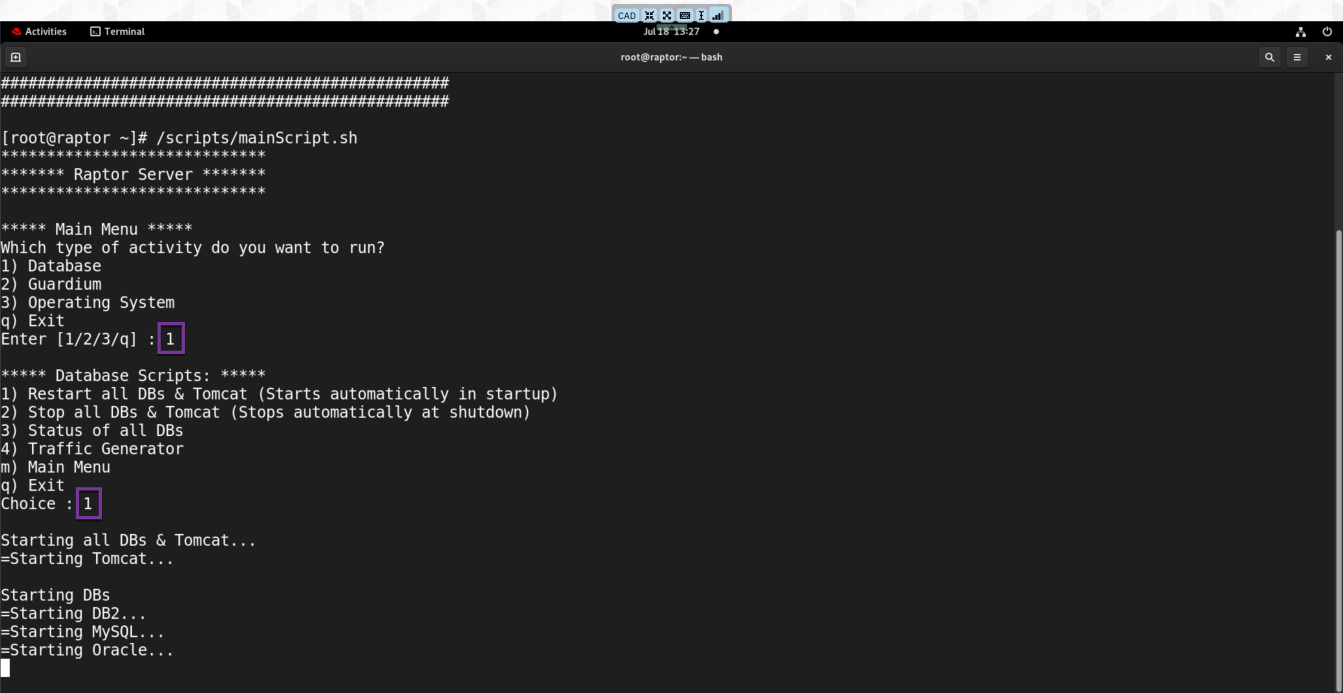
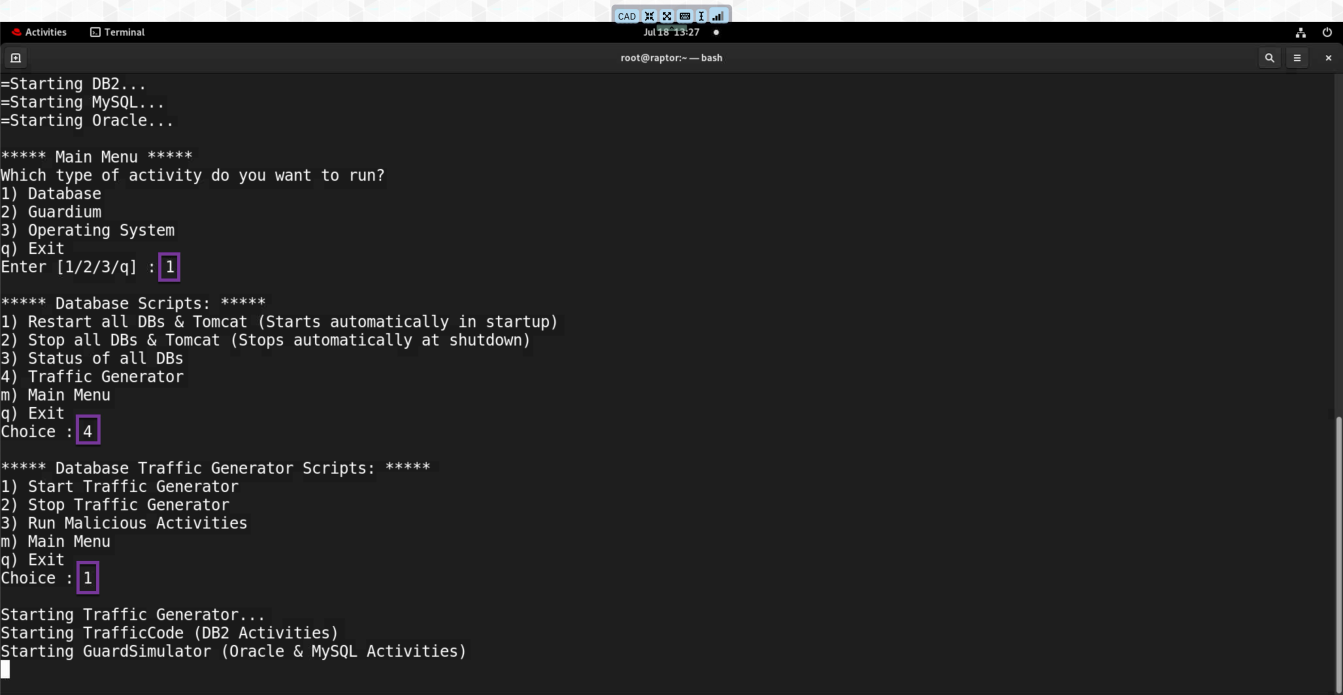
lab 101 pictures added

diff --git a/content/labs/Guardium/101.md b/content/labs/Guardium/101.md
@@ -21,7 +21,9 @@ This lab demonstrate the Active Threat Analytics dashboard that shows potential 
 > **Note:** Perform the steps in the preparation guide before starting the demo, preferably several hours or more, so that there is sufficient traffic generated.
 
 
-- On the Raptor server, open a Firefox browser. The browser opens with two tabs, one forthe collector (C200) and another for the Central Manager (MA170). Click the Central Manager (MA170) tab. Login with ``labadmin`` password `P@ssw0rd`.
+- On the Raptor server, open a Firefox browser. The browser opens with two tabs, one forthe collector (C200) and another for the Central Manager (MA170). Click the Central Manager (MA170) tab. Login with `labadmin` password `P@ssw0rd`.
+
+![](./images/101/image-001.png)
 
 IBM Security Guardium Data Protection solution has its own access management
 functions. Access management consists of four tasks: account administration,
@@ -36,6 +38,7 @@ This demonstration uses an administrative account to access all functions.
 
 - Review the notice dialog and then close it by clicking any area on the main page.
 
+![](./images/101/image-002.jpg)
 
 Guardium has hardened appliances. It does not only audit data sources, but it also
 monitors itself and reports Guardium user activities. When you login, you see the last login
@@ -44,6 +47,7 @@ information, fix pack details if needed, and tasks to review.
 
 - Review the flow in the main page.
 
+![](./images/101/image-003.jpg)
 
 The Guardium welcome page shows a flow for data security that is built on experience in
 this area. It starts with managing the assets and identifying data sources and sensitive
@@ -54,30 +58,31 @@ and audit activities, report activities, perform actions, and run advanced analy
 capability provides a bird's eye view of potential risks in the systems and risk trends over
 time, and tools to investigate the potential risks.
 
-
 ### Smart Assistant
 
 - In the MA170 GUI, sign in as `labadmin`.
 - In the Navigation menu, go to **Setup > Smart Assistant > Compliance Monitoring**.
 
+![](./images/101/image-004.jpg)
 
 Guardium has compliance monitoring smart assistant functions that help quickly configure
 monitoring for GDPR, PCI, SOX, and other security standards and regulations.
 
 - On the General Data Protection Regulation (GDPR) pane, click View details.
 
+![](./images/101/image-005.png)
 
 Now, view the details for an existing GDPR compliance configuration.
 
 - View the Summary tab.
 
-
+![](./images/101/image-006.png)
 
 The summary tab shows that one database is being monitored, and there are two policies,
 and sixteen reports associated with this compliance monitoring.
 
 - Select the Databases tab.
-
+![](./images/101/image-007.png)
 
 The databases tab shows more detailed information about the database being monitored.
 In this case, there is one database of type Db2 and it is being monitored by a S-TAP agent.
@@ -87,6 +92,7 @@ In this case, there is one database of type Db2 and it is being monitored by a S
 - Review the security policy, then optionally expand the discovery scenario section to show
     which types of data Guardium searches for.
 
+![](./images/101/image-008.png)
 
 There are two policies associated with the GDPR compliance monitoring. The security
 policy has ten rules for evaluating database traffic. The discovery scenario describes the
@@ -96,6 +102,7 @@ convictions.
 
 - Select the Reports tab and review the reports associated with GDPR compliance.
 
+![](./images/101/image-009.png)
 
 Guardium provides preconfigured reports for GDPR auditing and reporting requirements.
 These reports can be used as-is or as templates for customized reports.
@@ -103,6 +110,7 @@ These reports can be used as-is or as templates for customized reports.
 
 - Close the details pane.
 
+![](./images/101/image-010.png)
 
 The compliance monitoring dashboard shows a summary of all compliance monitoring.
 Guardium provides wizards to add other compliance monitoring scenarios, such as SOX,
@@ -112,13 +120,11 @@ standards and regulations.
 Now, you look at the compliance dashboards.
 
 
-- On the navigation menu, click **Setup > Smart Assistant > Compliance Health Monitor**
-
-
-Dashboard.
+- On the navigation menu, click **Setup > Smart Assistant > Compliance Health Monitor Dashboard**.
 
 - Show the reports on the dashboard.
 
+![](./images/101/image-011.png)
 
 This dashboard shows reports that help with compliance progress. For example, the
 number of known databases and number of databases that are configured for compliance,
@@ -130,6 +136,7 @@ Select the tabular view to see the values or the graphical view for summary.
 - On the navigation menu, click **Setup > Smart Assistant > Deploy Monitoring Agents**.
 - Review the page.
 
+![](./images/101/image-012.png)
 
 Guardium includes the Deploy Monitoring Agents tool to automatically activate GIM clients,
 install S-TAPs, and begin monitoring database traffic.
@@ -154,6 +161,7 @@ Now, look at another tool, Active Risk Spotter.
 
 - Review Risk Spotter page.
 
+![](./images/101/image-013.png)
 
 Risk Spotter is a First of its Kind technology, changing the security paradigm to an Artificial
 Intelligence Data Protection Policy. It uses a holistic algorithm to dynamically assess risk
@@ -162,6 +170,7 @@ factors, and it uses a smart algorithm to identify potential risks across the en
 
 - Expand Policy and Related modules.
 
+![](./images/101/image-014.png)
 
 The Risk Spotter algorithm uses Guardium modules to analyze the risk indicators and to
 identify risky users. Guardium adds three types of users to the Risk Spotter.
@@ -194,6 +203,7 @@ You reviewed the Risk Spotter tool.
 
 - Review the report and scroll down.
 
+![](./images/101/image-015.png)
 
 The Active Threat Analytics dashboard shows potential security breach cases, based on
 both the outlier mining process, and identified attack symptoms. In this dashboard, you

diff --git a/content/labs/Guardium/100.md b/content/labs/Guardium/100.md
@@ -103,8 +103,8 @@ databases. A script is used to maintain the server and perform activities.
     any reason, you can manually run the script to restart it.
 
 ![](./images/100/image11.png)
-5. Enter **1** for Database operations and **4** for Traffic Generator and then 3 to run malicious activities.
-![](./images/100/image12.png)
+5. Enter **1** for Database operations and **4** for Traffic Generator and then **3** to run malicious activities.
+![](./images/100/image12.jpg)
 
 You have successfully reserved the environment!
 
@@ -145,10 +145,10 @@ Keyboard Viewer**.
     `store system clock datetime <YYYY-MM-DD> <hh:mm:ss>`
 4. Restart the GDP console using the command **restart gui**.
 5. Repeat the procedure on the Collector server.
-![](./images/100/image13.png)
+
 The following graphic showcases the time adjustment procedure executed on server MA170 to agree
 with the raptor server:
-
+![](./images/100/image13.png)
 
 ## 4.3 Servers Unreachable
 
